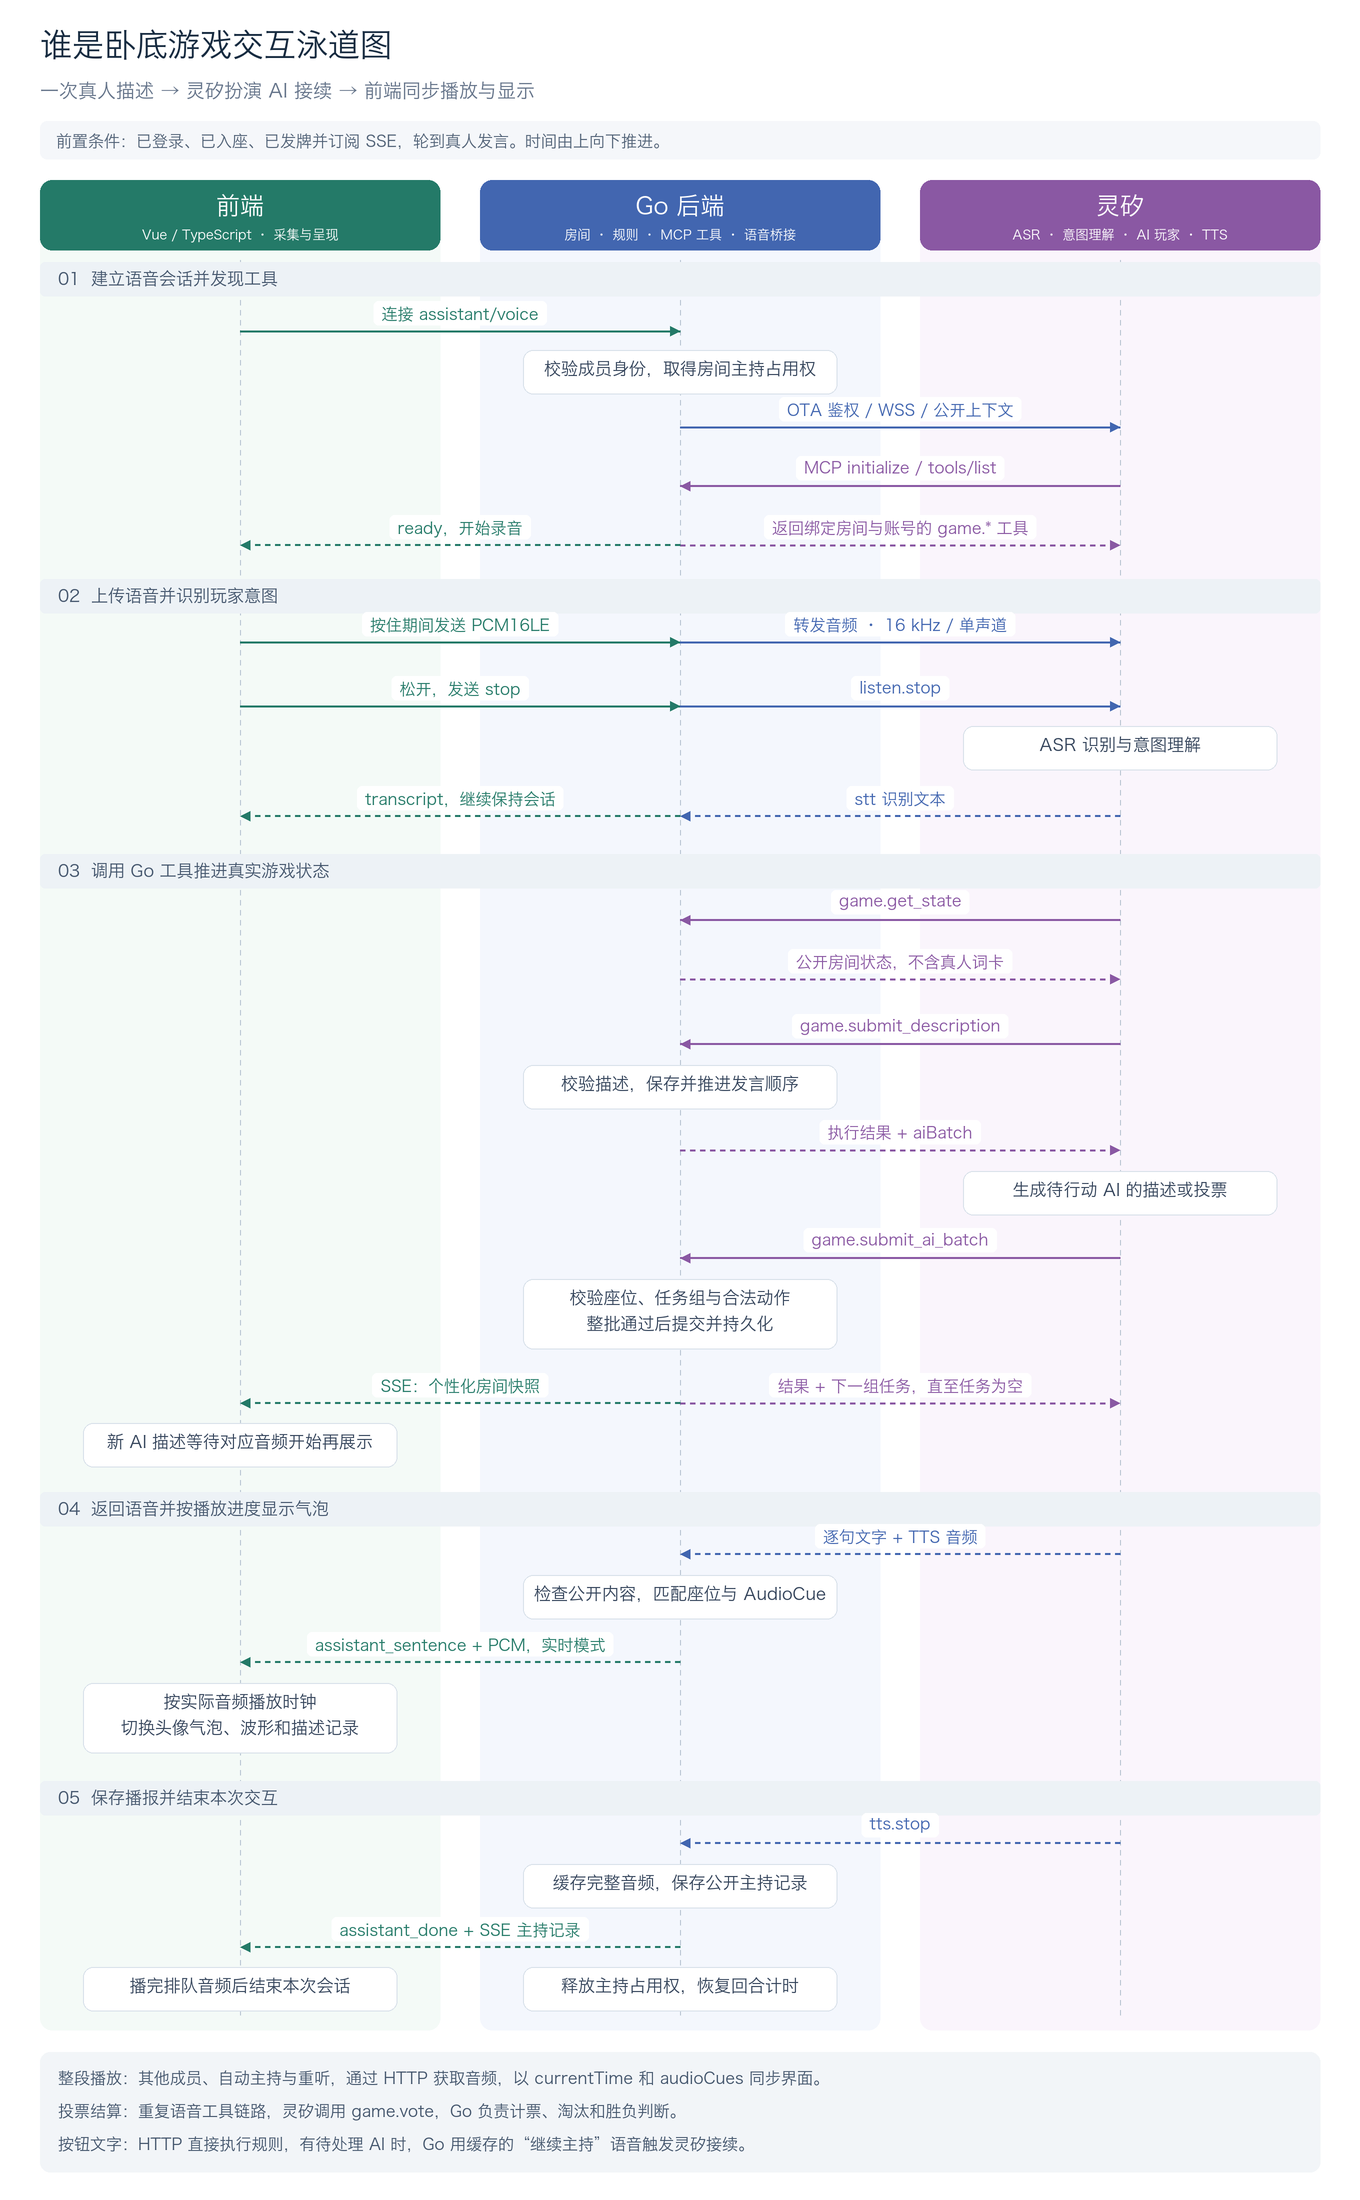
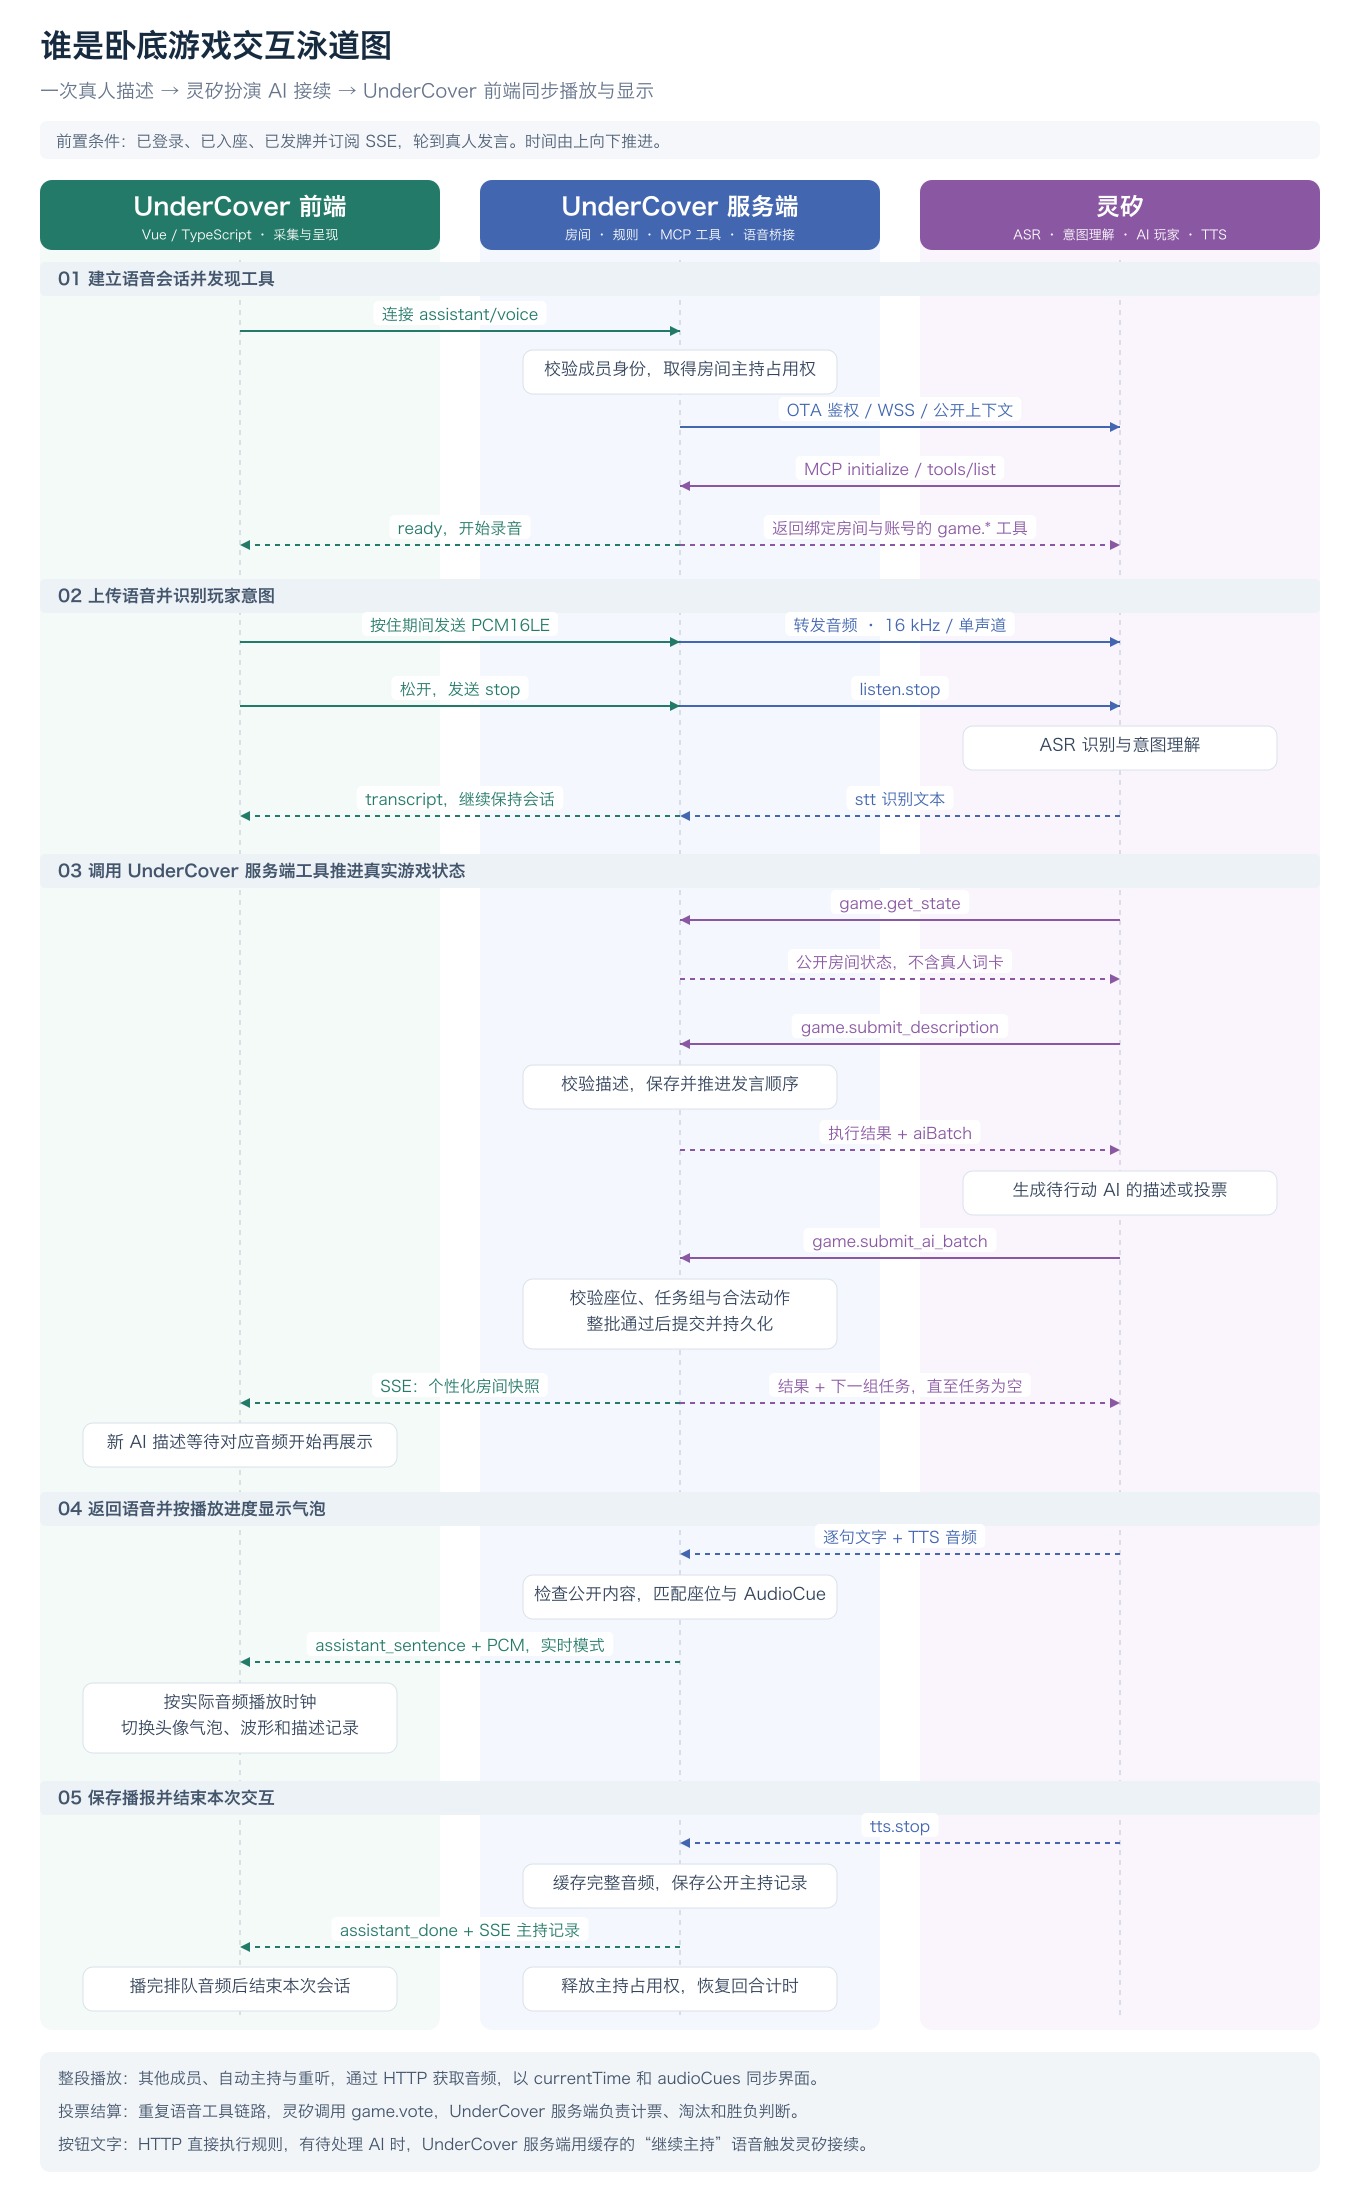
refactor: Update architecture and interaction diagrams to reflect UnderCover branding
- Changed references from "Go" and "前端" to "UnderCover 服务端" and "UnderCover 前端" in architecture documentation.
- Updated sequence diagrams to align with the new naming conventions and clarify component responsibilities.
- Modified SVG and PNG diagrams to incorporate UnderCover terminology and improve clarity in the game interaction flow.
- Removed outdated feedback and exception handling sections from product design documentation to streamline content.

diff --git a/docs/product-design.md b/docs/product-design.md
@@ -123,40 +123,8 @@ AI 发言采用以下表现：
 
 未绑定灵矽时，体验模式保留“开始体验”和“再玩一局”的按钮，供部署前试玩本地流程。
 
-## 反馈与异常体验
-
-| 状态 | 玩家看到或能够做的事情 | 设计目的 |
-| --- | --- | --- |
-| 不是自己的回合 | 显示等待哪位玩家，保留查看与重听入口 | 等待期间仍能观察线索 |
-| 灵矽正在处理 | 显示正在理解或组织 AI 回合的状态，避免重复开启语音 | 让玩家知道请求已收到 |
-| 声音尚未准备好 | 显示准备语音，气泡不抢先切到后面的玩家 | 保持文字和声音的顺序一致 |
-| 浏览器阻止自动播放 | 提示“点击开启声音”，保留待播内容 | 给出明确的恢复动作 |
-| 麦克风不可用 | 提示原因，在对应回合继续使用文字或点击投票 | 不让单一输入方式阻断整局 |
-| 音频播放失败 | 提供重试和重听；切换浏览器语音时标明来源 | 让玩家知道当前收听状态 |
-| 网络重连 | 显示重连状态，恢复当前房间进度 | 避免玩家误以为需要重新开局 |
-| 玩家出局 | 头像弱化，标明观战状态 | 保留同桌感，同时区分可行动玩家 |
-| 游戏中离席 | 先确认离席，说明座位会由 AI 接续 | 让离开对其他玩家的影响可预期 |
-
-声音开关改变收听方式，已经提交的发言和投票仍保留。关闭播报时，玩家可以通过文字继续游戏；开启声音后也可以手动重听记录。
-
 ## 灵矽在产品中的角色
 
 灵矽持续提供这款产品的主要 AI 能力：听懂自然语言、识别玩家意图、扮演空位 AI、生成描述和投票，并通过语音完成主持。玩家依然可以直接与灵矽交谈。
 
 交互页面让这些能力产生看得见的结果：说“开始游戏”后词卡发到桌上，说完描述后记录进入对应座位，说“我投二号”后出现已投状态。Go 后端保存房间、词卡和票数，校验操作并决定轮次与胜负，保证页面上的对局状态一致。技术协作过程见 [架构文档](architecture.md)。
-
-## 本版范围与后续验证
-
-本版已经包含房间大厅、XBuilder 登录、四人和六人局、AI 补位、圆桌词卡、语音与文字操作、同步发言气泡、投票加赛、结算和本局发言重听。
-
-后续优先考虑多位 AI 的独立音色与角色表现、移动端按住说话的易用性，以及多人客户端之间更一致的播放节奏。排行榜、观战大厅、完整历史战绩和社交分享可在核心对局体验稳定后再扩展。
-
-“页面会让体验更好”需要通过试玩验证。建议让新玩家分别体验控制台原型和网页版本，交叉安排先后顺序，重点观察：
-
-| 观察项 | 要验证的问题 |
-| --- | --- |
-| 首局完成情况 | 玩家能否在没有开发者口头指导的情况下完成一局 |
-| 进度询问次数 | 是否减少“轮到谁”“现在能投了吗”一类问题 |
-| 发言归属判断 | 玩家能否准确记住某条描述是谁说的 |
-| 投票操作情况 | 是否减少误选、重复提交和对投票是否生效的疑问 |
-| 主观参与感 | 玩家是否更容易感到自己正与几位玩家围桌游戏 |
